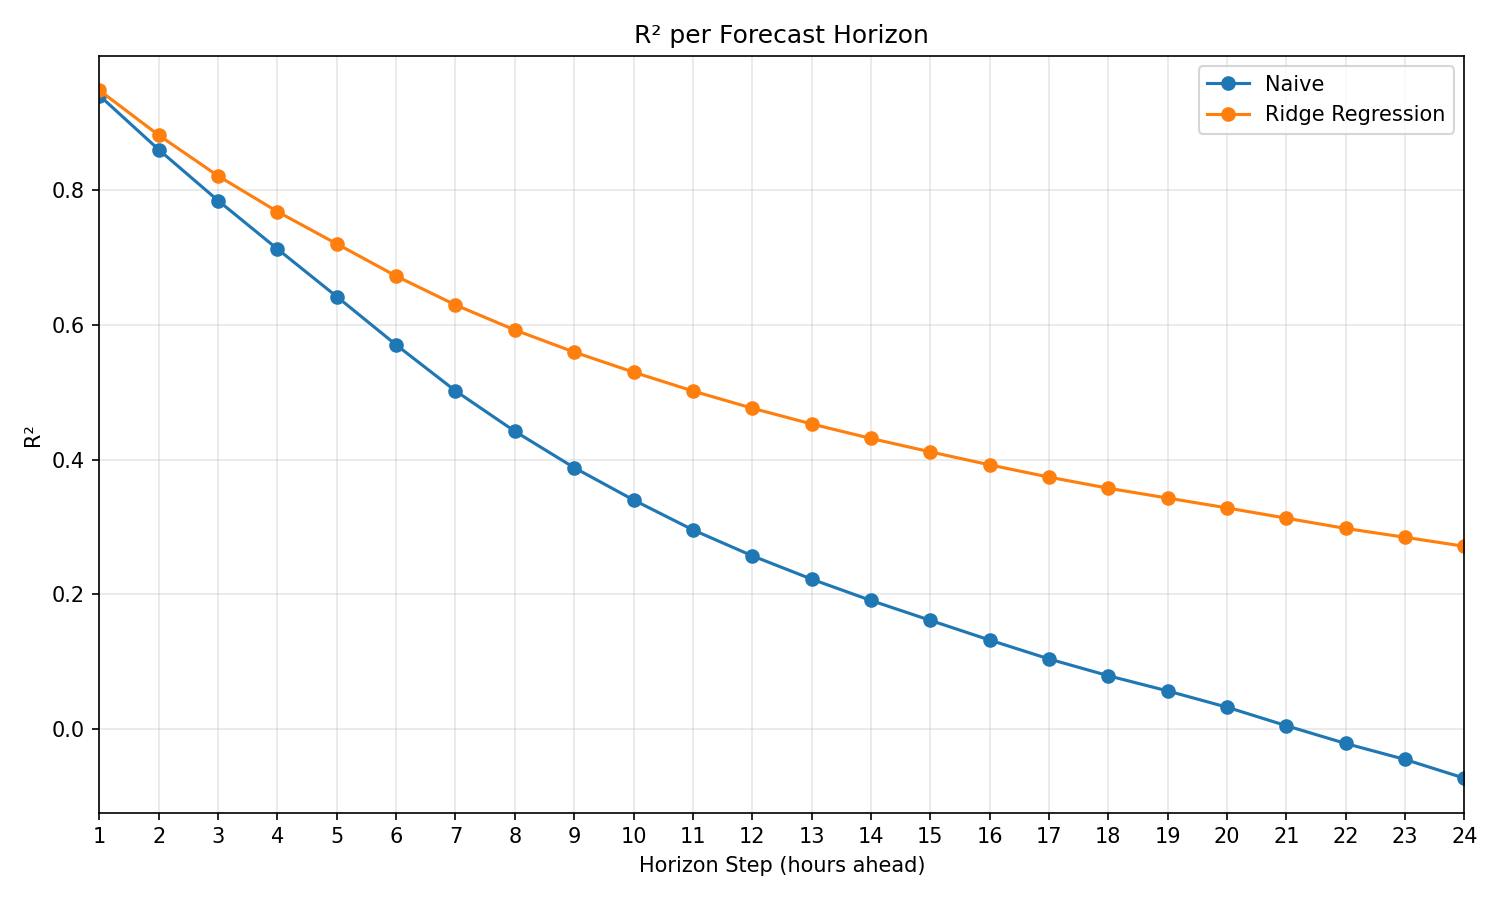
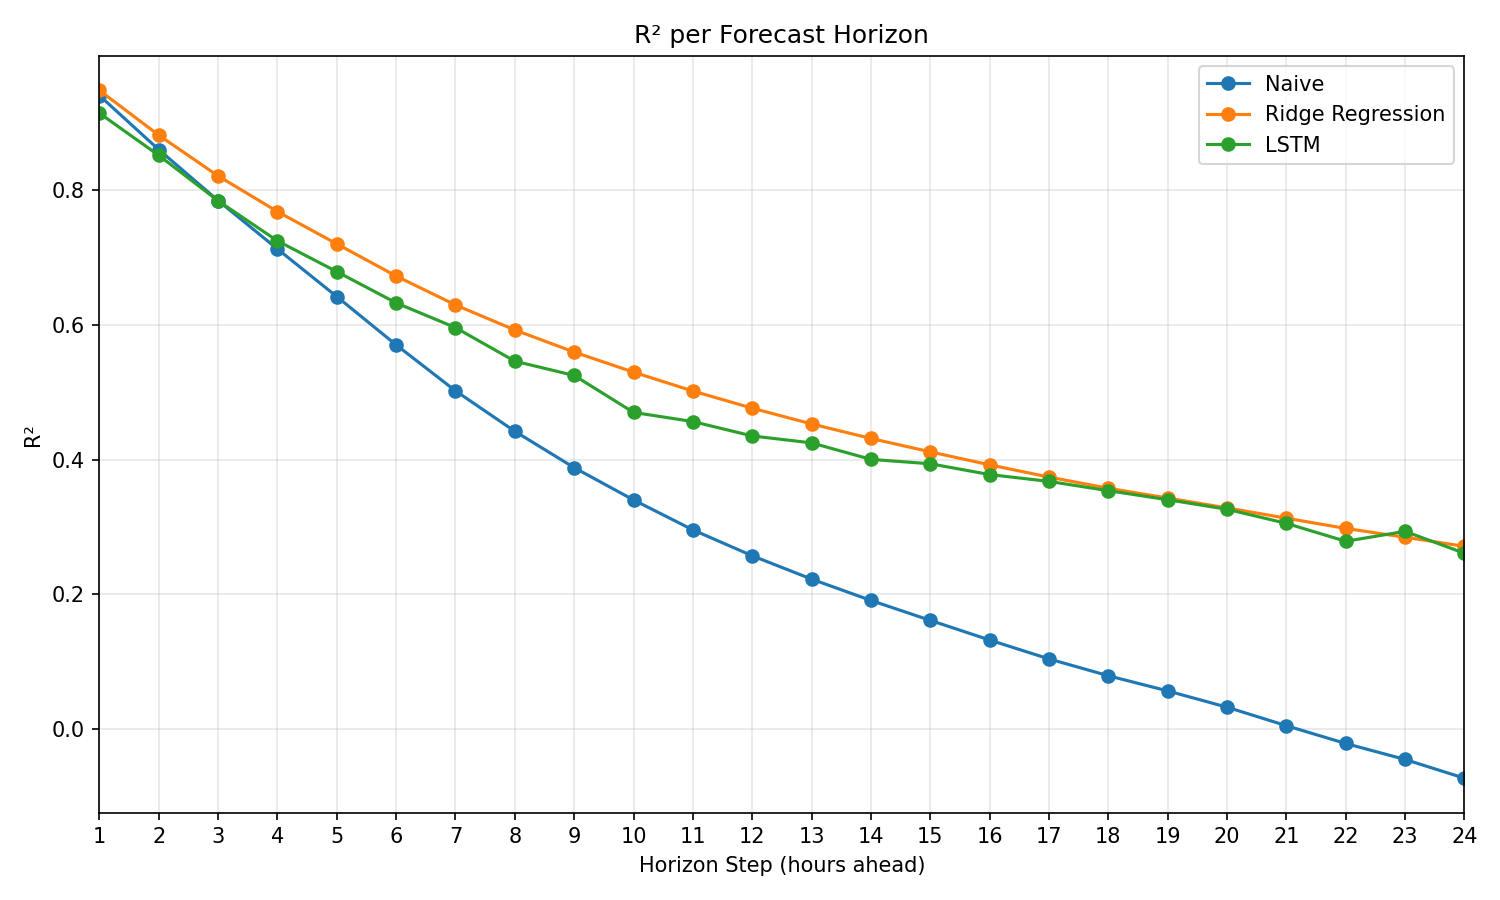
feat: add horizon comparison plots for Naive, Ridge and LSTM models

diff --git a/src/air_quality_rnn/generate_plots.py b/src/air_quality_rnn/generate_plots.py
@@ -1,36 +1,51 @@
+import argparse
 import json
 from pathlib import Path
 
 from air_quality_rnn.visualization import plot_mae_per_horizon, plot_r2_per_horizon
 
 
-def main():
-    """Generate MAE and R² horizon plots comparing naive baseline and Ridge model."""
+def load_json(path: str) -> dict:
+    with open(path, "r", encoding="utf-8") as f:
+        return json.load(f)
 
-    # Load results 
-    with open("reports/baselines.json", "r", encoding="utf-8") as f:
-        baselines_results = json.load(f)
 
-    with open("reports/linear_model.json", "r", encoding="utf-8") as f:
-        linear_model_results = json.load(f)
+def main() -> None:
+    """Generate horizon plots for baseline, Ridge, and optionally LSTM."""
 
-    # Select appropriate metrics 
+    parser = argparse.ArgumentParser()
+    parser.add_argument(
+        "--lstm-experiment",
+        default=None,
+        help="Optional LSTM experiment name, e.g. lstm_baseline",
+    )
+    args = parser.parse_args()
+
+    baselines_results = load_json("reports/baselines_metrics.json")
+    ridge_results = load_json("reports/ridge_metrics.json")
+
     naive_metrics = baselines_results["naive"]
-    ridge_metrics = linear_model_results["test_metrics"]
+    ridge_metrics = ridge_results["test_metrics"]
 
-    # Create figures directory 
+    lstm_metrics = None
+    if args.lstm_experiment is not None:
+        lstm_path = f"reports/experiments/{args.lstm_experiment}.json"
+        lstm_results = load_json(lstm_path)
+        lstm_metrics = lstm_results["test_metrics"]
+
     Path("reports/figures").mkdir(parents=True, exist_ok=True)
 
-    # Generate and save plots
     plot_mae_per_horizon(
         naive_metrics=naive_metrics,
         ridge_metrics=ridge_metrics,
+        lstm_metrics=lstm_metrics,
         save_path="reports/figures/mae_per_horizon.png",
     )
 
     plot_r2_per_horizon(
         naive_metrics=naive_metrics,
         ridge_metrics=ridge_metrics,
+        lstm_metrics=lstm_metrics,
         save_path="reports/figures/r2_per_horizon.png",
     )
 
